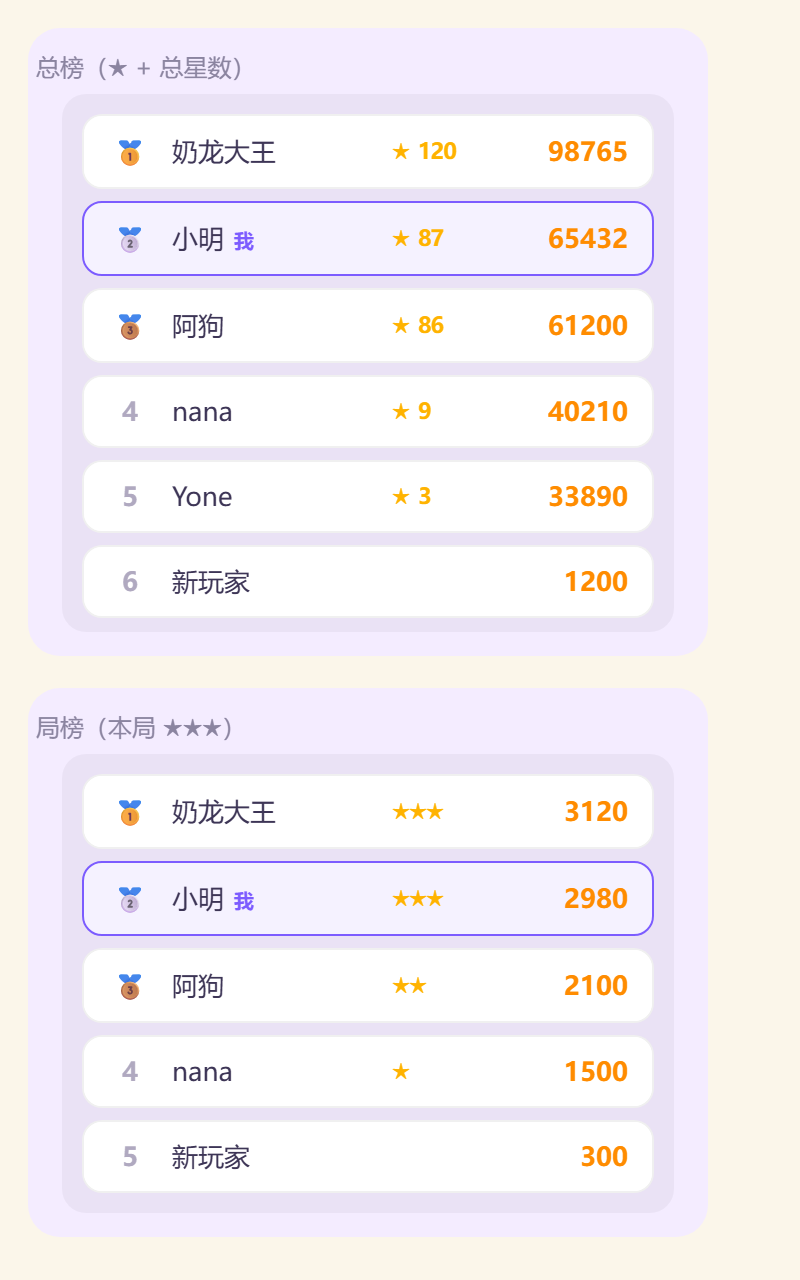
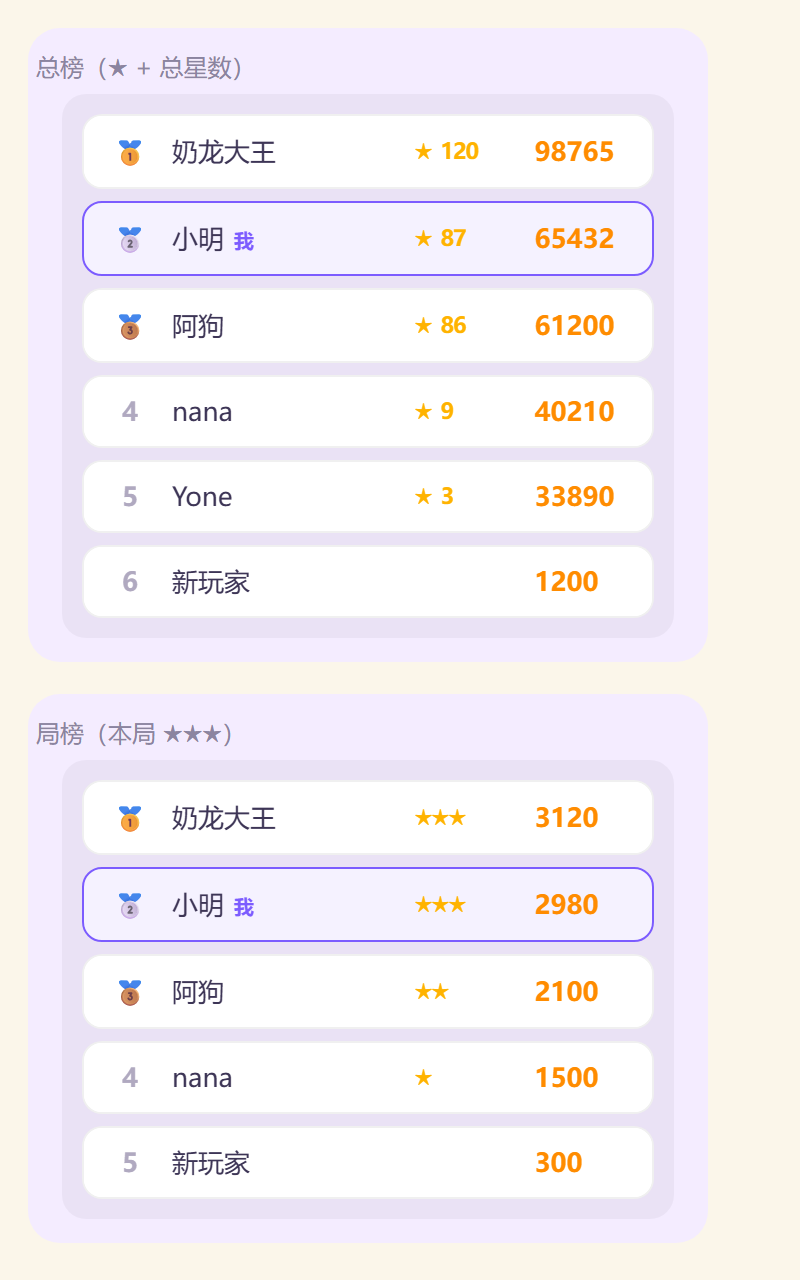
Update files

diff --git a/test-smoke.js b/test-smoke.js
@@ -582,7 +582,7 @@ function check(name, ok) {
   check('规则含星级评价说明', htmlSrc.includes('星级评价') && htmlSrc.includes('分数线'));
   check('规则说明线消横清行竖清列', htmlSrc.includes('横着连的清整行、竖着连的清整列'));
   check('规则含 8 种目标', ['普通得分', '收集方块', '清除果冻', '限时得分', '极限步数', '敲碎冰块', '运送钥匙', '护送奶龙'].every((s) => htmlSrc.includes(s)));
-  check('规则含障碍与货物说明', htmlSrc.includes('障碍与货物') && htmlSrc.includes('送到最底行') && htmlSrc.includes('落到被消掉那一格的下面一格'));
+  check('规则含障碍与货物说明', htmlSrc.includes('障碍与货物') && htmlSrc.includes('送到最底行') && htmlSrc.includes('最下面那个没被消掉的方块'));
   check('规则含狂热与节奏说明', htmlSrc.includes('狂热 6 秒') && htmlSrc.includes('节奏关卡'));
   check('规则含提示与续命说明', htmlSrc.includes('每局免费') && htmlSrc.includes('300 金币') && htmlSrc.includes('+7s'));
   check('规则含更多玩法与福利说明', htmlSrc.includes('无尽模式') && htmlSrc.includes('每日转盘'));  check('规则含成就配色排行榜说明', htmlSrc.includes('成就与配色') && htmlSrc.includes('排行榜与奖牌') && htmlSrc.includes('总榜 → 省榜 → 局榜'));
@@ -1078,11 +1078,13 @@ function check(name, ok) {
   // cargoGot 记的是「送达的货物总数」（奶龙也算在内），和场上剩的一起就是全部
   const cargoTotal = () => countCargo() + (st.goal.cargoGot || 0);
   const cargoCntBefore = cargoTotal();
+  const delivBefore = st.goal.cargoGot || 0;
   await sandbox.__nl_test.resolveClear(new Set(['2,0']), []);
-  check('货物被顶下时不会丢（下面有货也照掉，重合显示）', cargoTotal() === cargoCntBefore);
-  const k1 = st.board[3][0] && st.board[3][0].cargo;
-  check('掉下来的奶龙和原来那件货压在同一格', Array.isArray(k1) && k1.length >= 2 &&
-    k1.some((x) => x.kind === 'nailong') && k1.some((x) => x.kind === 'key'));
+  check('货物被顶下时不会丢（下面有货也照掉，总数守恒）', cargoTotal() === cargoCntBefore);
+  check('货物被消后一路掉到本列最底行并直接送达（不再停在半路）',
+    (st.goal.cargoGot || 0) === delivBefore + 1 &&
+    st.board[3][0].cargo && !Array.isArray(st.board[3][0].cargo) &&
+    !(st.board[7][0] && st.board[7][0].cargo));
 
   // 17c-2. 洗牌：钥匙 / 奶龙钉在原位，只有底下的方块参与洗牌
   sandbox.__nl_test.start(1, { def: { id: 95, theme: 'ocean', moves: 20, goal: { type: 'rescue', target: 2 }, rescue: 2, drop: 1, stars: [1, 2, 3] } });
@@ -1268,13 +1270,16 @@ function check(name, ok) {
   const r0 = await sandbox.__nl_test.resolveClear(allIce, []);
   check('全是冰时安全返回 0', r0 === 0);
 
-  // 26. 货物被消掉 → 落到下面一格（不从顶端重生）
+  // 26. 货物被消掉 → 一路掉到本列最底行直接送达（不从顶端重生、也不停在半路）
   sandbox.__nl_test.start(1, { def: { id: 92, theme: 'candy', moves: 20, goal: { type: 'drop', target: 2 }, cargo: 2, stars: [1, 2, 3] } });
   st = sandbox.__nl_test.state();
   const cargoObj = { kind: 'key' };
   st.board[5][3] = { type: 1, special: 0, cargo: cargoObj };
+  const delivBefore26 = st.goal.cargoGot || 0;
   await sandbox.__nl_test.resolveClear(new Set(['5,3']), []);
-  check('货物被消后落到下一格', !!(st.board[6][3] && st.board[6][3].cargo === cargoObj));
+  check('货物被消后直达最底行并送达',
+    (st.goal.cargoGot || 0) === delivBefore26 + 1 &&
+    !(st.board[6][3] && st.board[6][3].cargo) && !(st.board[5][3] && st.board[5][3].cargo === cargoObj));
 
   // 27. 彩虹 + 普通块交换、彩虹本身没被消（没凑成三连）：不触发，换回原位
   sandbox.__nl_test.start(1, { def: { id: 91, theme: 'candy', moves: 20, goal: { type: 'score', target: 999999 }, stars: [1, 2, 3] } });
@@ -1931,10 +1936,10 @@ function check(name, ok) {
     /Math\.abs\(Math\.cos\(p\.rot\)\)/.test(fxSrc) && /kind = 'confetti'/.test(fxSrc));
   // 41f-3. 连击窗口改短：停手一拍连击就断
   check('连击窗口缩到 1600ms', /const COMBO_WINDOW = 1600;/.test(jsSrc));
-  // 41f-4. 结算「继续游戏」按钮：绿色 + 新文案（DOM 断言在上面 17e 附近）
-  check('继续游戏按钮是绿色（渐变 + 白字）',
-    /#btn-clear-continue\s*{[^}]*linear-gradient\(180deg, #3ecf75, #27ab5a\)/.test(cssSrc) &&
-    /#btn-clear-continue\s*{[^}]*color: #fff;/.test(cssSrc));
+  // 41f-4. 结算「继续游戏」按钮：和页面其他按键同一套风格（不再单独做绿色渐变）
+  check('继续游戏按钮用页面统一按键风格',
+    !/#btn-clear-continue\s*\{[^}]*linear-gradient/.test(cssSrc) &&
+    /class="btn-secondary" id="btn-clear-continue"/.test(htmlSrc));
   // 41f-5. 钥匙换样式：银蓝「菱形柄」古堡钥匙
   check('钥匙换新样式（菱形手柄 + 银蓝金属渐变 + 黑描边）',
     /菱形手柄/.test(jsSrc) && /菱形左上棱一道高光/.test(jsSrc) &&
@@ -2073,6 +2078,21 @@ function check(name, ok) {
       /class="lb-stars ul-stars"/.test(jsSrc) && /\.ul-stars\s*\{/.test(cssSrc) &&
       !/admin-ul-list \.lb-swipe \{ padding-right: 4px; \}/.test(cssSrc);
   })());
+  // 41p. 本轮：结算键右下角统一风格 / 结算画面点任意处退出 / 榜单加高 / 列对齐 / 星数滚动
+  check('「结算」键钉在关卡记录右下角且用统一按键样式',
+    /#history-menu #btn-replay-ending\s*\{[^}]*right: 16px/.test(cssSrc) &&
+    /#history-menu #btn-replay-ending\s*\{[^}]*bottom: 16px/.test(cssSrc) &&
+    /class="btn-primary" id="btn-replay-ending">结算</.test(htmlSrc));
+  check('结算画面没有「回到主页」键，点任意处退出',
+    !htmlSrc.includes('btn-complete-home') && !jsSrc.includes('btn-complete-home') &&
+    /\$\('game-complete'\)/.test(jsSrc) && /completePanel\.addEventListener\('click'/.test(jsSrc));
+  check('排行榜列表加高到 52vh', /max-height: 52vh/.test(cssSrc));
+  check('分数列固定宽度左对齐（榜一定边界，后台省份间隔 21px）',
+    /\.lb-score\s*\{[^}]*text-align: left/.test(cssSrc) &&
+    /\.lb-score\s*\{[^}]*min-width: 3\.6em/.test(cssSrc) &&
+    /\.ul-prov\s*\{[^}]*margin-left: 21px/.test(cssSrc) &&
+    /\.ul-score\s*\{[^}]*text-align: left/.test(cssSrc));
+  check('结算画面总星数与总分同时长滚动', /countUp\(st, totalStars, 900\)/.test(jsSrc));
   check('名字长度只能 1~8 个字符（一个字母或符号都算一个）', (() => {
     const v1 = sandbox.Meta.validateNick('a');
     const v8 = sandbox.Meta.validateNick('abcdefgh');

diff --git a/index.html b/index.html
@@ -12,8 +12,8 @@
 <link rel="preload" as="image" type="image/webp" href="./assets/4.webp">
 <link rel="preload" as="image" type="image/webp" href="./assets/5.webp">
 <link rel="preload" as="image" type="image/png" href="./assets/nailong.png">
-<link rel="stylesheet" href="./css/style.css?v=20261107k">
-<link rel="stylesheet" href="./css/themes.css?v=20261107k">
+<link rel="stylesheet" href="./css/style.css?v=20261107m">
+<link rel="stylesheet" href="./css/themes.css?v=20261107m">
 </head>
 <body data-theme="grass" data-view="menu">
 <div class="game-container">
@@ -401,9 +401,9 @@
         <h3>🧊 障碍与货物</h3>
         <p><b>冰块</b>：冻住的方块不能交换、不参与连消，靠<b>旁边消除</b>或特殊块砸开；厚冰多层，越砸越透，每砸一次都有<b>碎冰声</b>。</p>
         <p><b>锁链</b>：第一次被消只解链、方块留下，之后才能正常交换。</p>
-        <p><b>货物（钥匙 / 奶龙 / 糖果）</b>：贴在方块上发呼吸光，带<b>黑色描边</b>，<b>目标是送到最底行</b>；消掉它下面的方块就往下掉一格，到底行算送达。<b>糖果 🍬 从第四章开始出现</b>，混在运送关的货物里，和钥匙一起计进目标数。</p>
+        <p><b>货物（钥匙 / 奶龙 / 糖果）</b>：贴在方块上发呼吸光，带<b>黑色描边</b>，<b>目标是送到最底行</b>。<b>糖果 🍬 从第四章开始出现</b>，混在运送关的货物里，和钥匙一起计进目标数。</p>
         <p><b>一个方块只放一样东西</b>：已有钥匙 / 奶龙、冰、锁链或特殊块的格子不会再叠新东西。</p>
-        <p><b>货物只往下走</b>：所在方块被消时，它<b>落到被消掉那一格的下面一格</b>——下面已有货也照掉，两件重合叠在一格里（后到的缩小贴左上角），一起到底行就一起送达。不会往上跑、也不会瞬移。</p>
+        <p><b>货物只往下走</b>：所在方块被消时，它<b>一路掉到本列最下面那个没被消掉的方块上</b>（两件同掉就重合叠在一格里，后到的缩小贴左上角）；下面已经没有方块了，也<b>直接算运送成功</b>。货物不会往上跑、也不会消失。</p>
       </section>
 
       <section class="rule-sec">
@@ -696,7 +696,7 @@
     <h2 class="title small">关卡记录</h2>
     <div class="history-list" id="history-list"></div>
     <button class="btn-secondary" id="btn-history-back">返回</button>
-    <button id="btn-replay-ending">结算</button>
+    <button class="btn-primary" id="btn-replay-ending">结算</button>
   </div>
 
   <!-- 背包 -->
@@ -800,7 +800,6 @@
         <b id="complete-total-stars" style="font-size:22px;color:#ffb400;">0</b>
       </p>
     </div>
-    <button class="btn-secondary" id="btn-complete-home">回到主页</button>
   </div>
   <!-- 章节地图 -->
   <div class="overlay" id="chapters-menu" style="display:none;">
@@ -960,22 +959,22 @@
   </div>
 </div>
 
-<script src="./js/rng.js?v=20261107k"></script>
-<script src="./js/storage.js?v=20261107k"></script>
-<script src="./js/audio.js?v=20261107k"></script>
-<script src="./js/effects.js?v=20261107k"></script>
-<script src="./js/specials.js?v=20261107k"></script>
-<script src="./js/goals.js?v=20261107k"></script>
-<script src="./js/tasks.js?v=20261107k"></script>
-<script src="./js/mail.js?v=20261107k"></script>
-<script src="./js/input.js?v=20261107k"></script>
-<script src="./js/builtin-music.js?v=20261107k"></script>
-<script src="./js/music.js?v=20261107k"></script>
-<script src="./js/meta.js?v=20261107k"></script>
-<script src="./js/cloud-config.js?v=20261107k"></script>
-<script src="./js/cloud.js?v=20261107k"></script>
-<script src="./js/account.js?v=20261107k"></script>
-<script src="./js/board.js?v=20261107k"></script>
-<script src="./js/game.js?v=20261107k"></script>
+<script src="./js/rng.js?v=20261107m"></script>
+<script src="./js/storage.js?v=20261107m"></script>
+<script src="./js/audio.js?v=20261107m"></script>
+<script src="./js/effects.js?v=20261107m"></script>
+<script src="./js/specials.js?v=20261107m"></script>
+<script src="./js/goals.js?v=20261107m"></script>
+<script src="./js/tasks.js?v=20261107m"></script>
+<script src="./js/mail.js?v=20261107m"></script>
+<script src="./js/input.js?v=20261107m"></script>
+<script src="./js/builtin-music.js?v=20261107m"></script>
+<script src="./js/music.js?v=20261107m"></script>
+<script src="./js/meta.js?v=20261107m"></script>
+<script src="./js/cloud-config.js?v=20261107m"></script>
+<script src="./js/cloud.js?v=20261107m"></script>
+<script src="./js/account.js?v=20261107m"></script>
+<script src="./js/board.js?v=20261107m"></script>
+<script src="./js/game.js?v=20261107m"></script>
 </body>
 </html>

diff --git a/css/themes.css b/css/themes.css
@@ -1321,7 +1321,7 @@ body.m-dragging .m-item { cursor: grabbing; }
 /* ================= 排行榜 ================= */
 .lb-list {
   width: 90%;
-  max-height: 42vh;
+  max-height: 52vh;
   overflow-y: auto;
   display: flex;
   flex-direction: column;
@@ -1438,19 +1438,8 @@ body.m-dragging .m-item { cursor: grabbing; }
 }
 
 /* 结算页「还有剩余步数　点击继续游戏」：绿色主行动按钮，一行写完不换行 */
-#btn-clear-continue {
-  width: auto;
-  padding: 14px 20px;
-  white-space: nowrap;
-  font-size: 14px;
-  background: linear-gradient(180deg, #3ecf75, #27ab5a);
-  color: #fff;
-  border: none;
-  box-shadow: 0 3px 0 rgba(0, 0, 0, 0.12);
-}
-#btn-clear-continue:active {
-  background: linear-gradient(180deg, #33b966, #1f9750);
-}
+/* 「还有剩余步数/秒数点击继续游戏」：不再单独做绿色样式，
+   直接用页面上统一的按键风格（.btn-secondary 同款大小 / 圆角 / 间距） */
 .lb-row {
   position: relative;
   overflow: hidden;
@@ -1526,54 +1515,50 @@ body.m-dragging .m-item { cursor: grabbing; }
   text-align: left;
   color: #ffb300;
 }
+/* 分数列：固定宽度 + 左对齐 —— 榜一的分数定下左边界，下面所有人的分数都和它左对齐
+   （榜一是最高分 = 最宽的分数，min-width 按最宽分数留档，星星列因此也不会被挤动） */
 .lb-score {
   flex: 0 0 auto;
-  min-width: 64px;
-  text-align: right;
+  min-width: 3.6em;
+  margin-left: 6px;      /* 榜一星星右缘与分数之间 ≈ 一个文字大小 */
+  text-align: left;
   font-weight: 800;
   color: #ff8c00;
   font-variant-numeric: tabular-nums;
 }
 .lb-score.none { font-weight: 600; font-size: 11px; color: #b0a9c0; }
 /* 后台「全服用户名单」：右边的省份标签比分数低调 */
-/* 后台「玩家」名单：名次 / 名字 / 星星 / 总分 / 省份，分数在省份左边且竖向对齐 */
+/* 后台「玩家」名单：名次 / 名字 / 星星 / 总分 / 省份，分数在省份左边且左对齐 */
 .ul-score {
-  min-width: 66px;
-  text-align: right;
+  min-width: 3.6em;
+  margin-left: 9px;
+  text-align: left;
   font-variant-numeric: tabular-nums;
 }
-/* 后台名单的星星列：比榜单窄一点，放在分数左边、右对齐 */
+/* 后台名单的星星列：和榜单同一套（★ 贴左，固定宽度保证一列对齐） */
 .ul-stars {
-  min-width: 34px;
+  min-width: 36px;
   /* 和榜单一样：星星贴左对齐（min-width 保证一列看下去是一条竖线） */
   justify-content: flex-start;
   margin-left: 12px;
   font-size: 10px;
 }
 /* 后台「玩家」名单：省份贴右的间距 = 序号贴左的间距（都是行的 12px 内边距） */
-/* 关卡记录左下角的「结算」键：黄色、一直显示（打没打完都能看结算画面） */
+/* 关卡记录右下角的「结算」键：和其他按键同一套样式（.btn-primary），只是钉在右下角 */
 #history-menu #btn-replay-ending {
   position: absolute;
-  left: 16px;
+  right: 16px;
   bottom: 16px;
   margin: 0;
-  padding: 10px 24px;
-  border: none;
-  border-radius: 999px;
-  background: linear-gradient(180deg, #ffd75c, #ffb300);
-  color: #5c4300;
-  font-size: 15px;
-  font-weight: 800;
-  box-shadow: 0 3px 10px rgba(255, 179, 0, 0.35);
-  cursor: pointer;
 }
+/* 后台「玩家」名单：省份贴在分数右边，榜一的分数与省份之间 ≈ 两个文字大小；
+   省份同样左对齐（同一列起点一致） */
 .ul-prov {
   font-weight: 700;
   font-size: 12px;
   color: #8a82a6;
-  width: 42px;              /* 预留三个字的宽度 */
-  min-width: 42px;
-  text-align: right;
+  margin-left: 21px;
+  text-align: left;
   white-space: nowrap;
   overflow: hidden;
   text-overflow: ellipsis;
@@ -1588,8 +1573,8 @@ body.m-dragging .m-item { cursor: grabbing; }
 #admin-ul-search { width: 90%; margin: 8px 0 2px; }
 /* 省份详情的搜索框：和下面列表一样宽（90%），不要通栏 */
 #prov-ul-search { width: 90%; margin: 8px 0 2px; }
-/* 省份详情的人数：贴最右边，不占固定列宽 */
-#prov-ul-list .ul-prov { width: auto; min-width: 42px; flex: 0 0 auto; text-align: right; }
+/* 省份详情的省份列：和「玩家」名单同一套（分数右 21px、左对齐） */
+#prov-ul-list .ul-prov { flex: 0 0 auto; }
 /* 整行灰显：0 分没上榜的人（名次 / 名字也跟着变灰） */
 .lb-row.none .lb-rank,
 .lb-row.none .lb-name { color: #b0a9c0; }

diff --git a/js/game.js b/js/game.js
@@ -1710,17 +1710,12 @@
     // 被消掉的货物往下掉一格：**不管下面那一格已经有货还是特殊块，照掉不误**，
     // 两件货压在同一格就重合着显示（送到底行时一起送达）。
     // 这样钥匙 / 奶龙永远只会往下走，不会出现「往上跑 / 瞬移到别列」的怪相。
+    // 被消掉的货物一路掉到本列「最下面那个没被消掉的方块」上：
+    // 重力会把幸存方块压到底，所以最下面那个就在最底行 —— 掉上去就等于送达。
+    // 下面已经没有没被消掉的方块（整列被清光）也一样：直接掉到底行，照样算运送成功。
     kickedCargo.sort((x, y) => y.r - x.r).forEach((d) => {
-      let tr = Math.min(ROWS - 1, d.r + 1);
-      // 下面那一格被整块消掉了（掉落后可能还是空的）：一路往下找第一块能贴的方块
-      while (tr < ROWS - 1 && !(S.board[tr] && S.board[tr][d.c])) tr++;
-      const cell = S.board[tr] && S.board[tr][d.c];
+      const cell = S.board[ROWS - 1] && S.board[ROWS - 1][d.c];
       if (cell) addCargo(cell, d.cargo);
-      else {
-        // 整列都空了（极少见）：至少留在原来那一格，绝不凭空消失
-        const home = S.board[d.r] && S.board[d.r][d.c];
-        if (home) addCargo(home, d.cargo);
-      }
     });
     await animateDrop(fallFrom);
     S.landAnims = [];
@@ -3022,7 +3017,10 @@
       totalStars += r.stars || 0;
     });
     const sc = $('complete-total-score'), st = $('complete-total-stars');
-    if (st) st.textContent = String(totalStars);
+    if (st) {
+      st.textContent = '0';
+      countUp(st, totalStars, 900);   // 总星数和总分数同一时长滚动
+    }
     if (sc) {
       sc.textContent = '0';
       countUp(sc, totalScore, 900);
@@ -4922,9 +4920,10 @@
       showOverlay('main-menu');
       refreshMenu();
     });
-    const completeHome = $('btn-complete-home');
-    if (completeHome) completeHome.addEventListener('click', () => {
-      $('game-complete').style.display = 'none';
+    // 结算画面：点面板上任何地方都能退出（按钮已删，不写提示文字）
+    const completePanel = $('game-complete');
+    if (completePanel) completePanel.addEventListener('click', () => {
+      completePanel.style.display = 'none';
       S.playing = false;
       S.menuLevel = maxMainLevel();
       showOverlay('main-menu');

diff --git a/_preview/history.html b/_preview/history.html
@@ -11,6 +11,6 @@
     <div class="history-item"><span class="h-name"><span class="h-lv">第 3 关</span></span><span class="h-stars">⭐☆☆</span><span class="h-score">1200</span></div>
   </div>
   <button class="btn-secondary" id="btn-history-back">返回</button>
-  <button id="btn-replay-ending">结算</button>
+  <button class="btn-primary" id="btn-replay-ending">结算</button>
 </div>
 </body></html>

diff --git a/README.md b/README.md
@@ -17,6 +17,7 @@
 - **洗牌只洗方块**：`reshuffle()` 先把货物（钥匙 / 奶龙）从方块上摘下来、记下坐标，只把方块丢进池子重排，洗完再按原坐标贴回去 —— 货物**位置一丝不动**，只有它底下压着的方块会换。冰块 / 锁链本来就在独立数组里，同样不动；兜底的重排图案分支也只改 `type`。
 - **目标口径（冰块 / 钥匙 / 奶龙）**：目标数永远 = 「已完成 + 场上还剩」，`syncGoalFromBoard()` 在开局、读档、每次结算后各校准一次，所以数字和棋盘上数得出来的一致。冰块按**块**算（厚冰要砸透才算清掉一块，不再按层数把目标虚高成两倍）。货物被顶下时先在原列往下找位、再往上、然后全盘找空位，实在没有才贴回原位 —— 绝不凭空消失（丢一只奶龙 = 那关永久打不过）。
 - **特殊块**：横/竖 4 连出线消，L/T 出炸弹，5 连出彩虹；两个特殊块相邻交换触发组合技。引爆有专属特效（`js/effects.js`）：炸弹火球冲击波 + 全屏闪光 + 震屏 + **一圈彩带**（`FX.confetti()`，六色纸带边翻转边左右摆着飘落），线消蓝光束横 / 竖扫过，彩虹五色波纹 + 白闪。炸弹音效是**低频「轰」**（`playSFX('bomb')`：150→42Hz 滑音下坠的主轰 + 320→105Hz 爆点冲击 + 380Hz 低通尾噪 + 一记 640Hz 小喇叭也听得见的起音；**完全不用高频噪声 / 碎粒**，那是碎冰的招牌，混进来就会听着像冰块碎了）。棋盘方块底色用各自图案色加深 25%（`tileBaseColor`），不再是黑色；彩虹特殊块是图案方块叠 🌈 emoji（drawSpecialOverlay）；`assets/rainbow.jpg` 彩虹图用在棋盘配色列表「彩色」行的图标上。
+- **按键风格统一**：结算面板的「还有剩余步数／秒数点击继续游戏」键不再单独做绿色渐变（`#btn-clear-continue` 的覆盖样式已删），直接用页面统一的 `.btn-secondary` 样式（同样 180px 宽、圆角、字号、`margin-bottom:12px` 间距）；关卡记录的「结算」键同理用 `.btn-primary`。
 - **其他**：连击倍率（**连击窗口 1600ms** `COMBO_WINDOW`，停手一拍连击就断）、4 连击狂热（6 秒双倍；表现是**棋盘正下方**一枚静态倒计时小标「🔥 双倍 Ns」（`.frenzy-slot` 固定占位，出现 / 消失都不挤动棋盘），逐秒递减，棋盘不做呼吸闪动 / 亮度变化，避免看着晃眼）、每局 3 次提示（照着高亮的交换走那一步、洗牌或撤回后 `clearHint()` 立刻收掉高亮框）、失败可花金币续命、可撤回、切后台自动暂停、1~3 星。中央连击弹窗只停留 620ms（`COMBO_DECAY`），淡出 0.16s，不长时间挡棋盘。全局提示条（toast）停留 3 秒。后台「全服玩家 / 省份」搜索框**区分大小写**（输 `yone` 不再匹配 `YONE`）。步数 / 时间用完**绝不自动消耗背包道具**（`autoUseLeftoverItems` 已整体删除），只保留花金币续命的机会。过关时还有剩余步数 / 剩余时间，结算面板会多一个**绿色**的「还有剩余步数／秒数点击继续游戏」按钮（限时关点完 `startTimer()` 继续跑表，时间到 = 第二次结算 `levelWin(true)`，不是失败）；失败标题限时关写「时间到了」，步数关写「步数耗尽」。主页「📍 当前进度」跟随最后进入的关卡（`startLevel` 写入 `settings.menuLevel`），从哪关出去主页就停在哪关。关卡记录和章节地图打开时都会把当前关卡平滑滑到列表中间；主页不可上下滚动；所有滑动区域不显示滚动条灰线。
 - **章节奖励**：一章（`levels.json` 的 `chapters`，每章 10 关）全部拿到星 → 自动往邮箱发一封「恭喜通过第X章」，附件 **200 金币**，玩家自己点「领取」（`Mail.sendMail`，id 固定 `chapter-clear-N` 不会重复发）。入口在 `grantChapterMails()`：过关结算（`levelWin`）和打开主页（`refreshMenu`）各调一次，所以老玩家之前通过的章节会一次性补齐。
 - **商店 / 背包**：`Tasks.SHOP` 顺序即商店与背包的显示顺序：+3 步（300）、**+7s（300，限时关专用 `extraTime`，排在 +3 步下面；步数关点「使用」只提示、不扣道具；+3 步反过来在限时关也用不了）**、洗牌 +1（150）、撤回 +1（150）、开局线消 / 开局炸弹（200）、彩虹（500）。默认背包 `DEFAULT_ITEMS` 已带上 `extraTime: 0`，老存档缺字段按 0 处理。
@@ -24,8 +25,9 @@
 - **内部滚动板块**：面板里能独立滑动的区域统一用「关卡记录」同款深底（`rgba(0,0,0,0.04)` + 圆角 12px + 内边距 10px），一眼能看出「这块能滑」：成就列表（`.ach-list`）、邮箱列表（`.mail-list`）、排行榜列表（`.lb-list`）、省榜省份列表（`.prov-list`）、签到日期条（`.welfare-sign` 横向）、**章节地图列表（`.chapters-list`，`max-height:58vh` 内列表自滚——原来是整个 overlay 面板在滚，现在和关卡记录完全同一套效果，`scrollChaptersToCurrent` 直接复用 `scrollMenuToCenter`）**。说明页 / 音乐盒 / 邮件正文框本来就是深底，未动。章节地图里「点章节里的任意一关直接开始」提示行已删。
 - **星级只升不降**：结算的星取 `Math.max(本次算出的星, 历史最好)`（`levelWin` 里 `starsNow` 算本次、`stars` 显示用最大值；纪录写入仍走 `Store.recordLevel` 的 max）。所以 2 星过关后点「继续游戏」把剩余步数打光、剩余比例变小只够 1 星时，面板照样弹 2 星；成就统计（`starsGot` / `perfect`）按本次的 `starsNow` 记，不重复累加历史星。榜单合并同理：关卡榜不再让高分低星覆盖高星，总榜自己那行取 `Math.max`。
 - **糖果货物（第四章开始）**：运送关（`cargo > 0`）的货物从 **id ≥ 31（第四章）** 起混入糖果：`putCargo` 一半钥匙 + 一半糖果（`placeObstacles` 里按 `Math.ceil/floor` 拆分），糖果徽标 `drawCandyMark()` 纯 Canvas 路径画（圆糖体 + 两端分叉糖纸 + 斜条纹 + 黑描边 + 粉色呼吸光），送达浮字是「送达 🍬」。目标数照常按「总送达数」算（`syncGoalFromBoard` 里糖果和钥匙同走 `else` 分支），目标栏文案在 `S.goal.hasCandy` 时从「运送钥匙」换成「运送货物」（`goals.js barText`）。
-- **结算画面入口**：最后一关（`final`）打完**不再自动弹**毕业结算画面（`levelWin` 里那段 `setTimeout(showCompletePanel)` 已删）；关卡记录面板左下角**常驻**一个黄色「结算」键（`#btn-replay-ending`，`position:absolute; left:16px; bottom:16px`，黄渐变 `#ffd75c→#ffb300`），任何进度都能点开结算画面（数据实时取最新存档），不再有「全通关才显示」的限制。
-- **榜单对齐细节**：`.lb-stars` `margin-left:12px` 整列星星往右挪、和名字拉开（全部 `justify-content:flex-start` 左对齐，后台 `.ul-stars` 同样贴左）；后台「玩家」名单（`#admin-ul-list`）分数左边有总星数列 `.ul-stars`（★ N，固定 34px、0 星留空位），**省份贴右的间距 = 序号贴左的间距**（都是行内边距 12px，原来的 `padding-right:4px` 已删）。后台数据 `collectUserList` 带 `stars`（按共享榜的 `st`/`lv` 算总星、同名合并取最大）。
+- **货物掉落规则（2026-11-07 改）**：货物所在方块被消时，它**一路掉到本列最下面那个没被消掉的方块上**——重力把幸存方块压到底后那格就在最底行，所以等效于**直接送达**（`resolveClear` 里 `kickedCargo` 不再只掉一格，直接 `addCargo` 到 `board[ROWS-1][c]`，随后的 `collectCargo` 统一结算浮字 / 音效 / 目标推进）；整列被清光、下面没方块时**同样算运送成功**。旧的「只掉一格 / 半路停留」逻辑和测试（17c / 26）已按新规则改写。
+- **结算画面入口**：最后一关（`final`）打完**不再自动弹**毕业结算画面；关卡记录面板**右下角常驻**「结算」键（`#btn-replay-ending`，`position:absolute; right:16px; bottom:16px`，用和其他按键同一套 `.btn-primary` 样式，只是钉在右下角），任何进度都能点开（数据实时取最新存档）。结算画面（`#game-complete`）**删掉「回到主页」键，点面板上任何地方都能退出**（面板整体 click 监听，退出时回主页并刷新），不写任何提示文字；总星数和总分数**同时长（900ms）滚动**（`countUp(st, totalStars, 900)`）。
+- **榜单列对齐（以榜一为基准）**：星星格固定宽 `min-width:42px`（后台 `.ul-stars` 36px）+ 内容左对齐 → ★ 起点一列是一条竖线；分数列 `.lb-score`（后台 `.ul-score` 同）`min-width:3.6em` + **`text-align:left`** → 榜一（最高分 = 最宽分数）定下左边界，下面所有人的分数和榜一左对齐；榜一星星右缘与分数之间 `margin-left:6px` ≈ 一个文字大小（后台 9px）。后台省份列 `.ul-prov` 跟在分数后 `margin-left:21px`（≈ 两个文字大小）、同样左对齐（`#prov-ul-list` 的旧右对齐覆盖已删）。后台数据 `collectUserList` 带 `stars`（按共享榜的 `st`/`lv` 算总星、同名合并取最大）。排行榜列表加高：`.lb-list max-height` 42vh → **52vh**。
 - **名字长度**：客户端 `Meta.validateNick` 与服务端 `NICK_MAX` 都是 **1~8 个字符**（一个字母或符号各算一个，提示统一写「1~8 个字符」），后台展示也只截前 8 个字符。
 - **结算音效与画面同拍**：通关 `levelWin` 的星星音效、失败 `endGame` 的 gameover 音效都改为**在结算面板 `display:flex` 之后**才播（`winSfx()` / `endSfx()`，无面板时兜底直接播）；之前是提前 180ms 或特效等待前就响，听着比画面早半拍。
 - **总分口径**：只累加**已通关（星数 > 0）**关卡的最高分；没过关那一局的分数不进总分，也不参与「最高单关」判定，通关拿到星以后才加。排行榜（`myBestEntry`）、结算画面（`showCompletePanel`）、后台统计（`totalBestScore`）统一走这个口径。榜行**分数左边带星星**（局榜 = 本局星「★★★」，总榜 / 省榜 = 总星数「★ 87」）：星星占**固定一格**（`.lb-stars` `min-width:42px`），★ 图标贴左、**数字紧跟 ★ 后面**（`text-align:left` + `tabular-nums`），星星和数字紧挨着；**分数列固定 64px 右对齐**（`.lb-score` `min-width:64px` + `tabular-nums`），分数宽窄不再把星星挤来挤去，★ 起点一列看下去是一条竖线；0 星的行也留空位。
